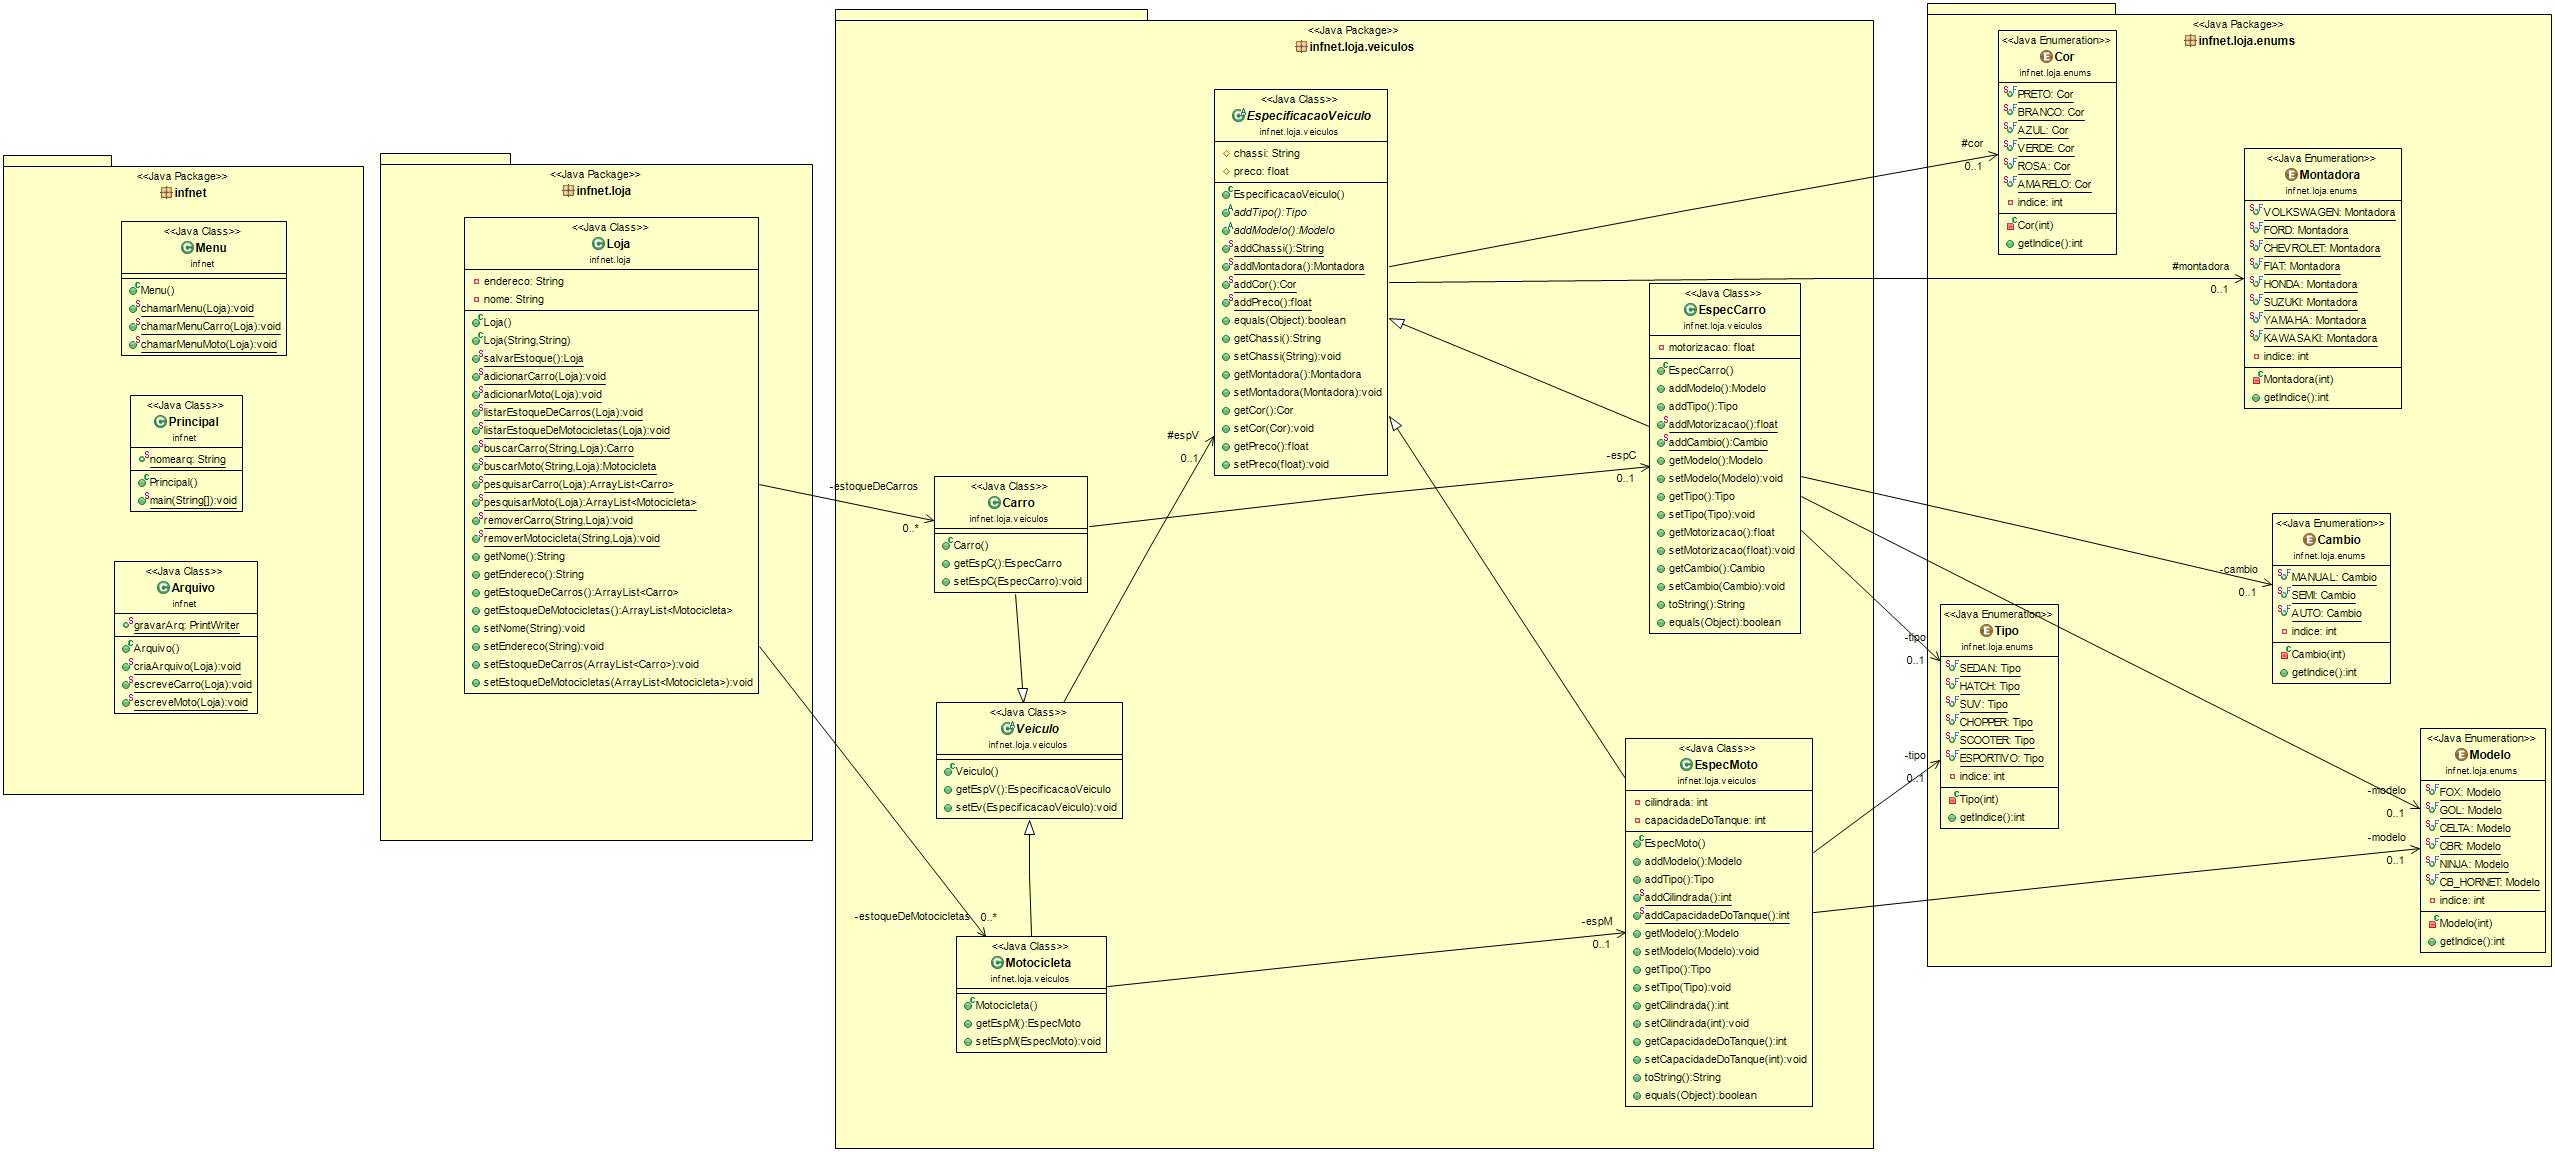
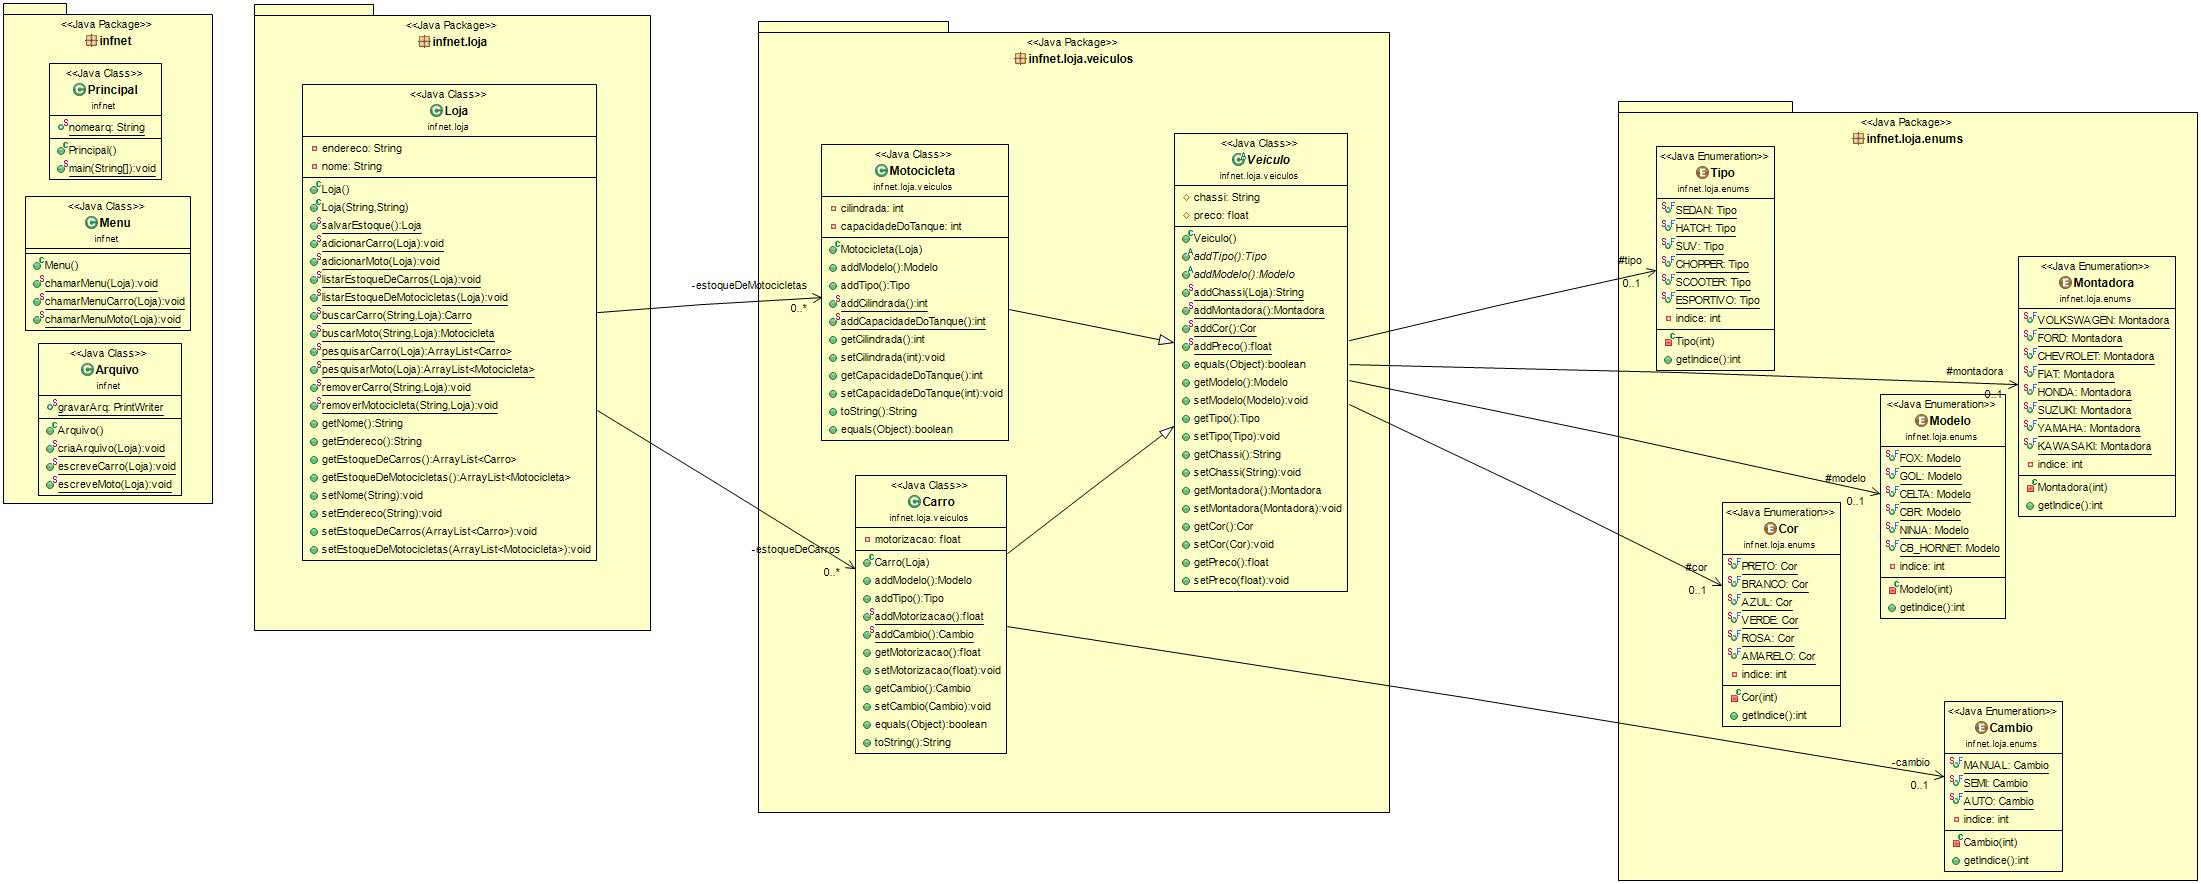
UML

diff --git a/src/infnet/loja/veiculos/Motocicleta.java b/src/infnet/loja/veiculos/Motocicleta.java
@@ -16,8 +16,6 @@ import javax.swing.JOptionPane;
  */
 public class Motocicleta extends Veiculo
 {
-	private Modelo modelo;
-	private Tipo tipo;
 	private int cilindrada;
 	private int capacidadeDoTanque;
 	/**
@@ -91,38 +89,6 @@ public class Motocicleta extends Veiculo
 	public static int addCapacidadeDoTanque() {
 		int capacidadeDoTanque = Integer.parseInt(JOptionPane.showInputDialog("Digite a capacidade do Tanque:"));
 		return capacidadeDoTanque;
-	}
-	
-	/**
-	 * getModelo Retorna o modelo da moto
-	 * @return modelo modelo da moto
-	 */
-	public Modelo getModelo() {
-		return modelo;
-	}
-
-	/**
-	 * setModelo altera o valor da variavel modelo para enum ModeloCarro que foi passado pelo parametro modelo
-	 * @param modelo modelo da moto
-	 */
-	public void setModelo(Modelo modelo) {
-		this.modelo = modelo;
-	}
-
-	/**
-	 * getTipo Retorna o tipo da moto
-	 * @return tipo tipo da moto
-	 */
-	public Tipo   getTipo() {
-		return tipo;
-	}
-
-	/**
-	 * setTipo altera o valor da variavel tipo para enum TipoCarro que foi passado pelo parametro tipo
-	 * @param tipo tipo da moto
-	 */
-	public void setTipo(Tipo tipo) {
-		this.tipo = tipo;
 	}
 
 	/**

diff --git a/src/infnet/loja/veiculos/Veiculo.java b/src/infnet/loja/veiculos/Veiculo.java
@@ -17,6 +17,8 @@ import infnet.loja.enums.Tipo;
  * @since 19-05-2015
  */
 public abstract class Veiculo {
+	protected Modelo modelo;
+	protected Tipo tipo;
 	protected String chassi;
 	protected Montadora montadora;
 	protected Cor cor;
@@ -113,6 +115,38 @@ public abstract class Veiculo {
 			return false;
 		return true;
 	}
+	/**
+	 * getModelo Retorna o modelo do veiculo
+	 * @return modelo modelo do veiculo
+	 */
+	public Modelo getModelo() {
+		return modelo;
+	}
+
+	/**
+	 * setModelo altera o valor da variavel modelo para enum Modelo que foi passado pelo parametro modelo
+	 * @param modelo modelo do veiculo
+	 */
+	public void setModelo(Modelo modelo) {
+		this.modelo = modelo;
+	}
+
+	/**
+	 * getTipo Retorna o tipo do veiculo
+	 * @return tipo tipo do veiculo
+	 */
+	public Tipo   getTipo() {
+		return tipo;
+	}
+
+	/**
+	 * setTipo altera o valor da variavel tipo para enum Tipo que foi passado pelo parametro tipo
+	 * @param tipo tipo do veiculo
+	 */
+	public void setTipo(Tipo tipo) {
+		this.tipo = tipo;
+	}
+	
 	/**
 	 *getChassi Retorna o chassi do veiculo
 	 * @return chassi chassi do veiculo

diff --git a/src/infnet/loja/veiculos/Carro.java b/src/infnet/loja/veiculos/Carro.java
@@ -17,8 +17,6 @@ import javax.swing.JOptionPane;
  */
 public class Carro extends Veiculo 
 {
-	private Modelo modelo;
-	private Tipo tipo; 
 	private float motorizacao;
 	private Cambio cambio;
 	
@@ -104,36 +102,6 @@ public class Carro extends Veiculo
 			}
 		}
 		return cambio;
-	}
-	/**
-	 * getModelo Retorna o modelo do carro
-	 * @return modelo modelo do carro
-	 */
-	public  Modelo getModelo() {
-		return modelo;
-	}
-	/**
-	 * setModelo altera o valor da variavel modelo para enum ModeloCarro que foi passado pelo parametro modelo
-	 * @param modelo modelo do carro
-	 */
-	public void setModelo(Modelo modelo) {
-		this.modelo = modelo;
-	}
-
-	/**
-	 * getTipo Retorna o tipo do carro
-	 * @return tipo tipo do carro
-	 */
-	public Tipo getTipo() {
-		return tipo;
-	}
-
-	/**
-	 * setTipo altera o valor da variavel tipo para enum TipoCarro que foi passado pelo parametro tipo
-	 * @param tipo tipo do carro
-	 */
-	public void setTipo(Tipo tipo) {
-		this.tipo = tipo;
 	}
 
 	/**
